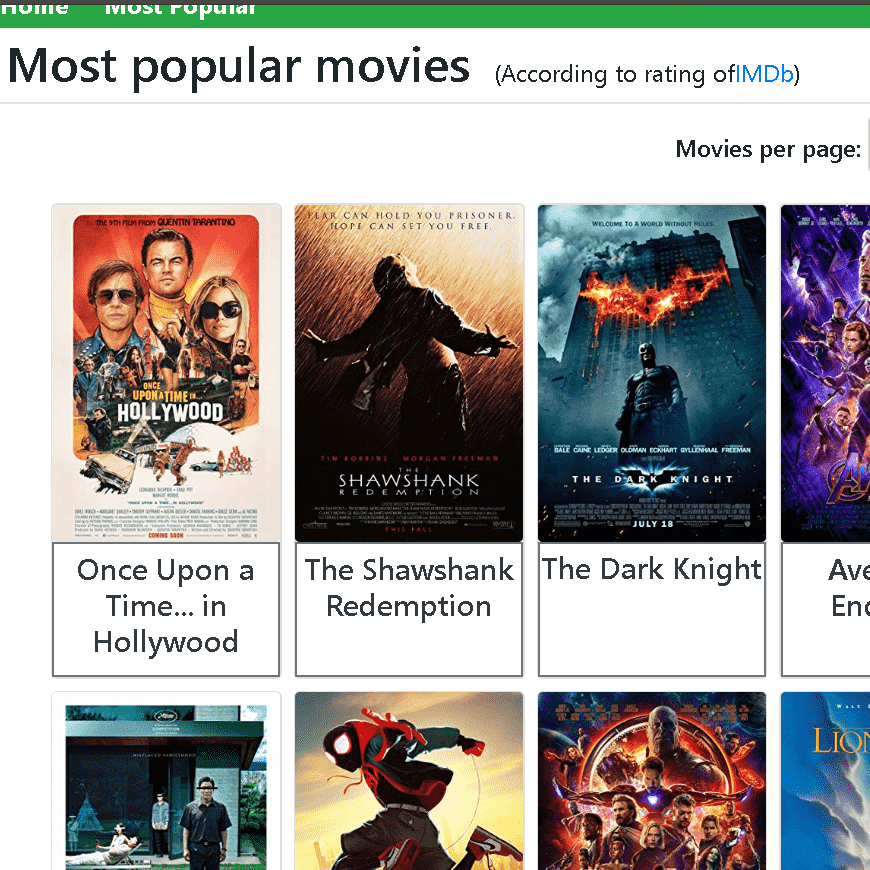
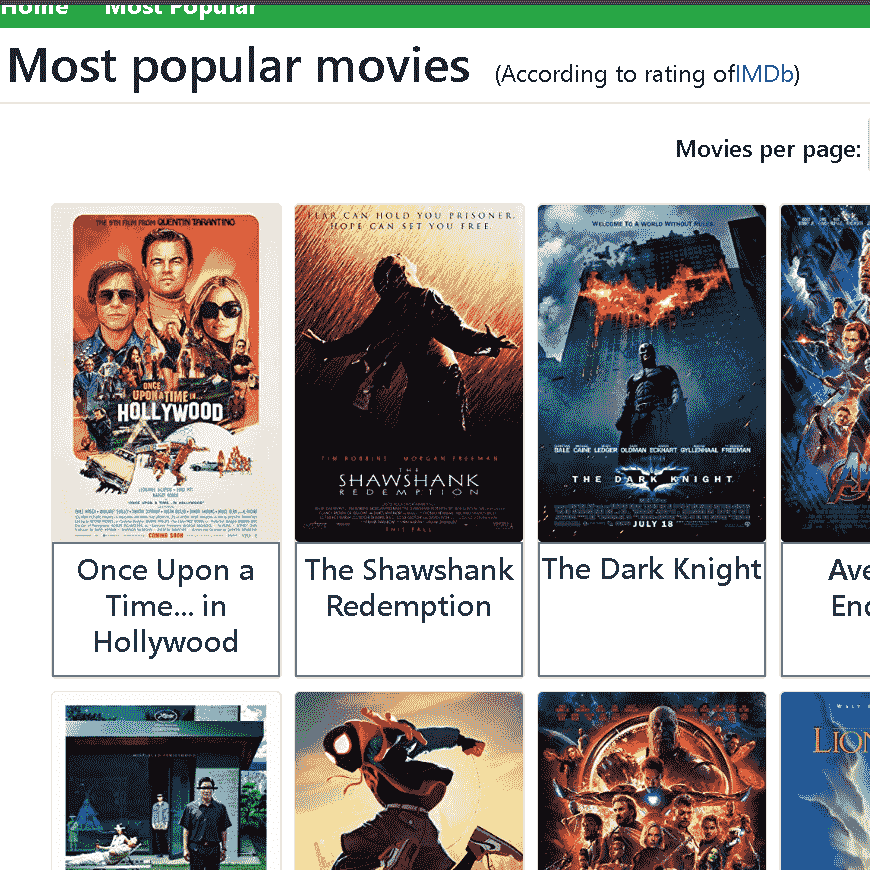
Minify images

diff --git a/app/imageCompressor.js b/app/imageCompressor.js
@@ -1,12 +1,12 @@
 const compressor = require("compress-images");
 
-// const inputPath = `./images/main/*.{jpg,JPG,jpeg,JPEG,png,svg,gif}`;
-const inputPath = `./images/main/all-movies-1.png`;
+const inputPath = `./images/main/*.{jpg,JPG,jpeg,JPEG,png,svg,gif}`;
+// const inputPath = `./images/main/all-movies-1.png`;
 const outputPath = './images/minified/';
 
 compressor(inputPath, outputPath, { compress_force: false, statistic: true, autoupdate: true }, false,
                 { jpg: { engine: "mozjpeg", command: ["-quality", "60"] } },
-                { png: { engine: "pngquant", command: ["--quality=10-20", "-o"] } },
+                { png: { engine: "pngquant", command: ["--quality=1-1", "-o"] } },
                 { svg: { engine: "svgo", command: "--multipass" } },
                 { gif: { engine: "gifsicle", command: ["--colors", "64", "--use-col=web"] } },
   function (error, completed, statistic) {

diff --git a/app/index.html b/app/index.html
@@ -100,7 +100,7 @@
             <li ng-repeat="tech in project.technologies">{{tech}}</li>
           </ul>
         </div>
-        <img ng-src="/images/-cropped/{{project.href}}-1.png">
+        <img ng-src="/images/minified/{{project.href}}-1.png">
       </a>
     </template>
     <template id="fiddle-directive-tmpl">

diff --git a/app/views/project.html b/app/views/project.html
@@ -6,7 +6,7 @@
         <p>
           {{item.descr}}
         </p>
-        <img src="{{item.src}}">
+        <img src="/images/minified/{{item.src}}">
       </div>
     </carousel-item>
   </ui-carousel>
